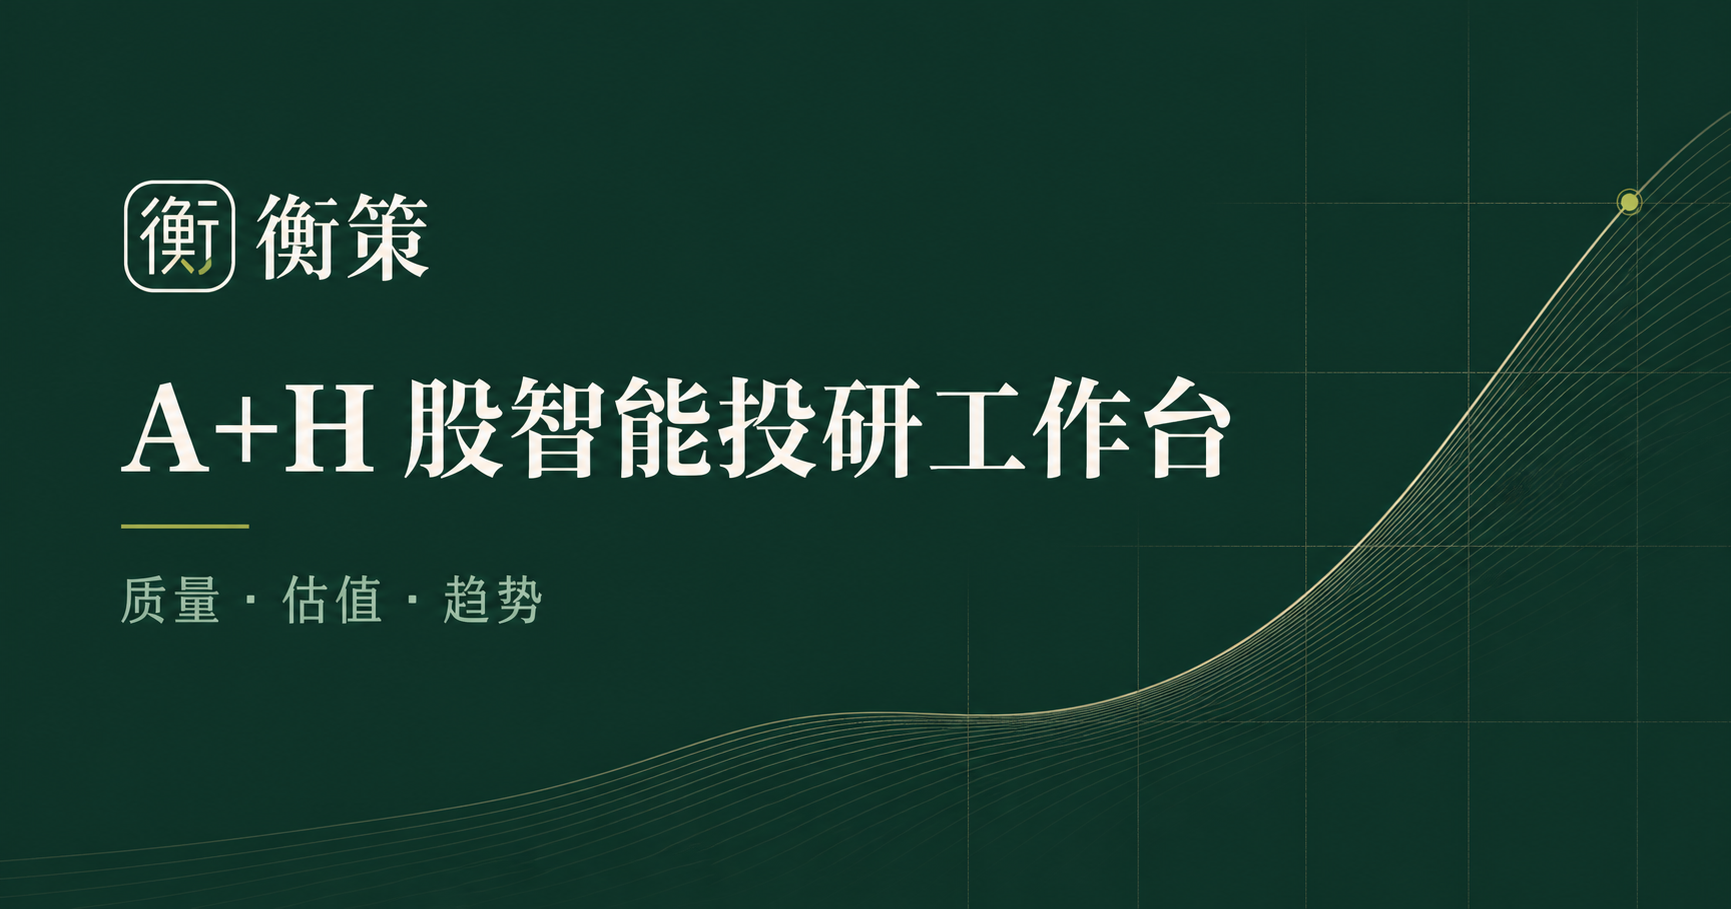
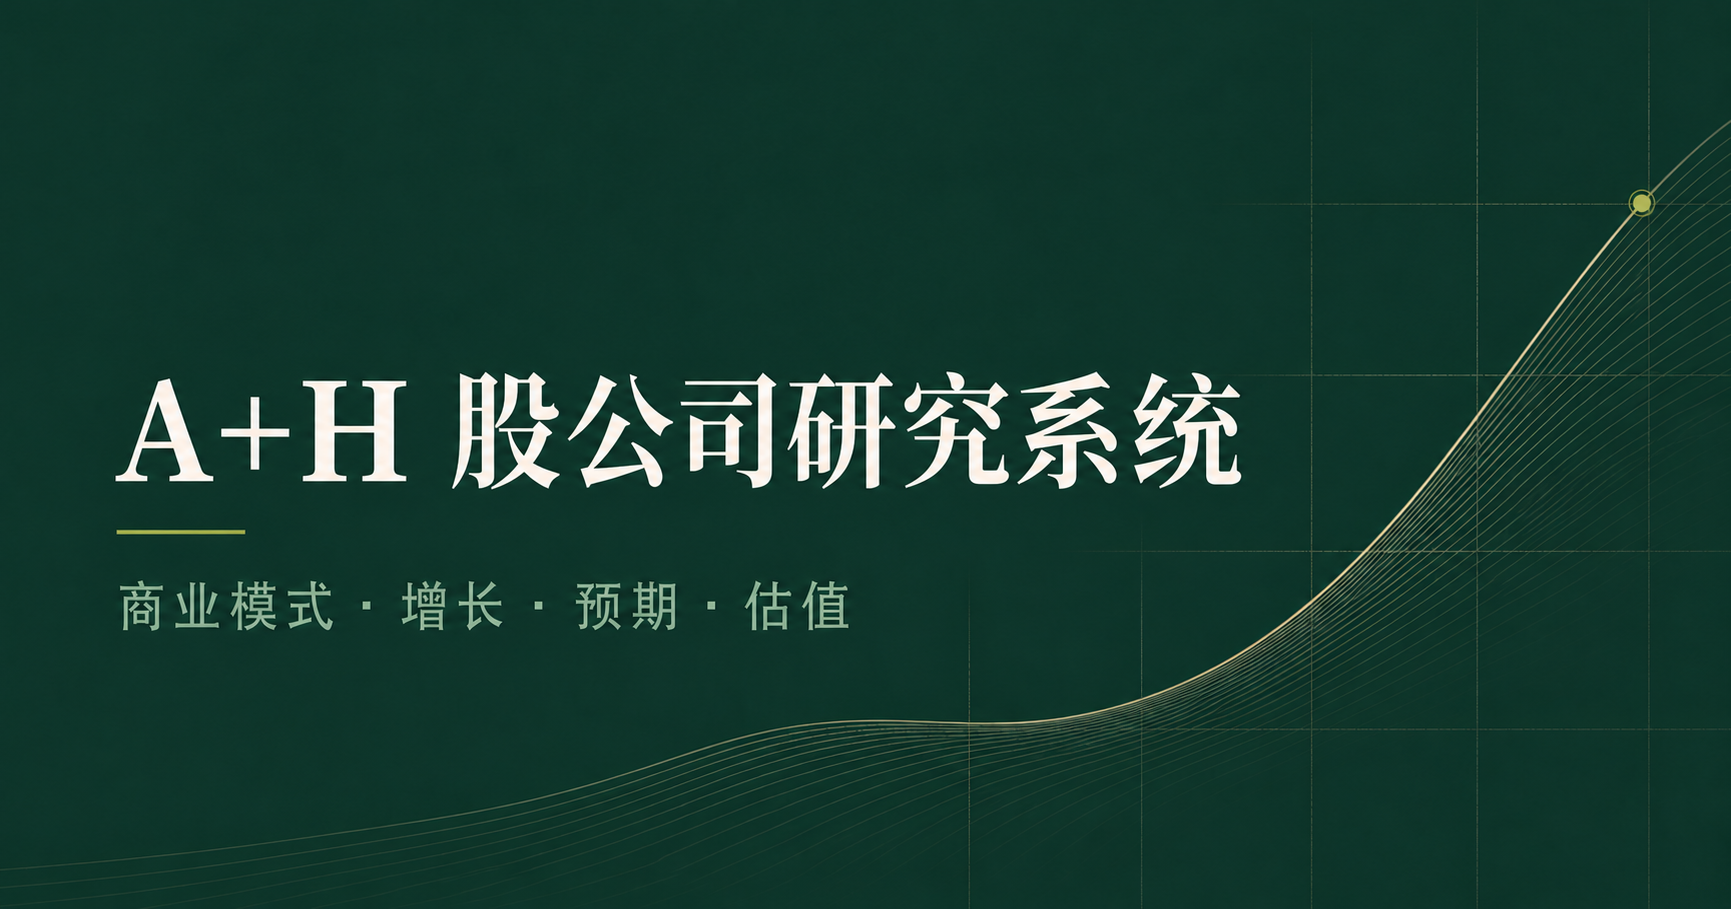
Improve README and update project branding

diff --git a/web/app/globals.css b/web/app/globals.css
@@ -9,7 +9,7 @@ button, a { -webkit-tap-highlight-color: transparent; }
 .shell { min-height: 100vh; display: grid; grid-template-columns: 224px minmax(0, 1fr); }
 .sidebar { position: sticky; top: 0; height: 100vh; display: flex; flex-direction: column; padding: 30px 18px 22px; color: #e7eee9; background: var(--green); }
 .brand { display: flex; align-items: center; gap: 11px; padding: 0 10px 34px; font-size: 20px; font-weight: 750; letter-spacing: .1em; }
-.brand-mark { width: 34px; height: 34px; display: grid; place-items: center; color: var(--green); background: var(--lime); border-radius: 9px; font-family: serif; letter-spacing: 0; }
+.brand-mark { width: 42px; height: 34px; display: grid; place-items: center; color: var(--green); background: var(--lime); border-radius: 9px; font-size: 10px; letter-spacing: 0; }
 .sidebar nav { display: grid; gap: 6px; }
 .nav-item { display: flex; align-items: center; gap: 12px; padding: 12px 13px; color: #b9c9c1; text-decoration: none; border-radius: 9px; font-size: 14px; transition: .18s ease; }
 .nav-item span { width: 18px; font-size: 18px; text-align: center; }

diff --git a/web/app/layout.tsx b/web/app/layout.tsx
@@ -7,13 +7,13 @@ export async function generateMetadata(): Promise<Metadata> {
   const host = requestHeaders.get("x-forwarded-host") || requestHeaders.get("host") || "localhost:3000";
   const protocol = requestHeaders.get("x-forwarded-proto") || (host.startsWith("localhost") ? "http" : "https");
   const origin = `${protocol}://${host}`;
-  const title = "衡策｜A+H 股智能投研";
+  const title = "A+H 股公司研究系统";
   const description = "基本面质量、合理估值与中期趋势驱动的个人投研工作台。";
   const image = `${origin}/og.png`;
   return {
     title,
     description,
-    openGraph: { title, description, images: [{ url: image, width: 1731, height: 909, alt: "衡策 A+H 股智能投研工作台" }] },
+    openGraph: { title, description, images: [{ url: image, width: 1731, height: 909, alt: "A+H 股公司研究系统" }] },
     twitter: { card: "summary_large_image", title, description, images: [image] },
   };
 }

diff --git a/web/app/DashboardClient.tsx b/web/app/DashboardClient.tsx
@@ -152,7 +152,7 @@ export default function DashboardClient() {
   return (
     <main className="shell">
       <aside className="sidebar">
-        <div className="brand"><span className="brand-mark">衡</span><span>衡策</span></div>
+        <div className="brand"><span className="brand-mark">A+H</span><span>股公司研究系统</span></div>
         <nav aria-label="主导航">
           <a className="nav-item active" href="#overview"><span>◫</span> 公司研究总览</a>
           <a className="nav-item" href="#research"><span>⌁</span> 企业质量与增长</a>

diff --git a/web/app/page.tsx b/web/app/page.tsx
@@ -2,7 +2,7 @@ import type { Metadata } from "next";
 import DashboardClient from "./DashboardClient";
 
 export const metadata: Metadata = {
-  title: "投研总览｜衡策",
+  title: "A+H 股公司研究系统",
   description: "面向 A 股与港股的中期基本面、估值与趋势投研工作台。",
 };
 

diff --git a/README.md b/README.md
@@ -1,45 +1,95 @@
-# 衡策：A+H 股公司研究系统
+# A+H 股公司研究系统
 
-面向 A 股与港股单家公司的可审计研究框架。系统先识别商业模式、价值驱动和主要矛盾，再按公司选择研究周期、关键 KPI、专业角色、可比基准和估值方法。最终输出是一份一体化公司报告，而不是固定研究员流水账或组合仓位建议。
+一个面向 A 股与港股单家公司的可审计研究框架。
 
-报告重点回答：
+它不是通用股票打分器，也不负责给出仓位或自动下单。系统先理解公司如何赚钱、增长从哪里来、市场已经计价了什么，再选择适合这家公司的 KPI、研究周期、可比基准和估值方法，最后输出一份一体化公司研究报告。
 
-- 公司如何赚钱，竞争优势如何转化为利润、ROIC 和自由现金流；
-- 当前增长点是什么，增长正在加速、稳定、放缓还是尚无法判断；
-- 哪些基本面变化已经被股价计入，哪些仍存在预期差；
-- 什么估值方法适合这家公司，动态安全边际应是多少；
-- 理想买入、可接受买入、合理持有和估值偏贵/卖出复核价格在哪里；
-- 哪些风险会破坏 thesis，下一步应监测什么。
+## 它能回答什么
 
-企业质量、增长势头、估值状态和市场计价程度分别判断，不压缩成单一 BUY/SELL 分数。报告不包含目标仓位、调仓比例、组合权重或订单计划。
+- 公司靠什么赚钱，收入、利润、ROIC 和自由现金流由什么驱动？
+- 当前增长点是什么，增长处于加速、稳定、放缓还是无法判断？
+- 哪些变化已经反映在股价里，市场隐含了怎样的经营预期？
+- 这家公司适合 PE、DCF、SOTP、单位经济还是里程碑情景估值？
+- 动态安全边际应该是多少，依据是什么？
+- 理想买入、可接受买入、合理持有和估值偏贵/卖出复核区间在哪里？
+- 哪些风险会破坏 investment thesis，下一次应该监测什么？
 
-## 推荐使用方式：直接对话
+## 能力总览
 
-Codex 技能源码位于 `skills/ah-research-team/`。安装后可输入：
+| 模块 | 系统能做什么 | 关键约束 |
+|---|---|---|
+| A/H 证券识别 | 统一解析上交所、深交所、北交所和港交所代码 | 使用 `600519.SH`、`300750.SZ`、`830799.BJ`、`00700.HK` 等格式 |
+| 数据接入 | 支持离线 Demo、严格 JSON 数据文件和 AkShare 适配器 | 数据供应商只提供证据，不直接产生投资结论 |
+| 行情与快照 | 获取 A/H 日线、价格变化、最新聚合财务和估值上下文 | AkShare 聚合财务缺少完整历史披露时间，只适合当日研究线索 |
+| 时点控制 | 校验 `as_of`、`published_at`、`observed_at` 和 `period_end` | 拒绝未来数据；不把当前快照倒灌进历史研究 |
+| 研究蓝图 | 根据商业模式选择研究周期、关键 KPI、研究角色和可比策略 | 不使用固定 Agent 名单、固定因子权重或统一模板 |
+| 公司自适应研究 | 覆盖消费品牌、数字平台、资本密集制造、金融资产负债表、研发管线等类型 | 角色为问题服务，没有信息增量的角色不加入 |
+| 同业与基准 | 判断是否真正需要同业比较，并筛选有效可比对象 | 独特公司可改用自身历史、单位经济、SOTP 或情景估值 |
+| 独立反证 | 主动检查增长质量、会计、治理、周期和估值假设 | 不按人数投票，不用重复辩论制造置信度 |
+| 估值与安全边际 | 建立 bull/base/bear 情景、动态安全边际和价格区间 | 缺少正常化盈利、现金流或估值锚时拒绝虚假精确 |
+| 市场计价判断 | 分析预期是尚未充分反映、部分反映、大致充分反映还是过度反映 | 需要 reverse valuation、一致预期及价格反应等证据交叉验证 |
+| 报告输出 | 输出自然中文 Markdown 与结构化 JSON | 报告按公司问题组织，不展示内部角色流水账 |
+| Web 查看器 | 展示观察池、企业质量、估值状态、市场计价和证据缺口 | Web 只查看和保存研究结果，不在页面内生成研究 |
+| 工程验证 | 提供模拟成交、跨币种组合和 walk-forward 回测模块 | 与公司研究主流程解耦，不影响最终公司结论 |
+
+## 系统如何工作
+
+```mermaid
+flowchart LR
+    A[输入公司或证券代码] --> B[准备行情、财务与证据]
+    B --> C[生成公司研究蓝图]
+    C --> D[动态选择研究能力]
+    D --> E[独立反证与估值]
+    E --> F[Research Lead 综合裁决]
+    F --> G[Markdown / JSON 一体化报告]
+    G --> H[可选同步到 Web 查看器]
+```
+
+1. **确定研究对象与时点**：识别证券、市场和研究截止日期。
+2. **准备 evidence packet**：汇总行情、财务、估值线索和可追溯证据。
+3. **建立 research blueprint**：识别商业类型、主要矛盾、关键 KPI、研究周期和可比策略。
+4. **动态研究与挑战**：按公司选择必要能力，并至少进行一次独立反证。
+5. **公司特定估值**：选择合适方法，检查市场隐含预期，计算动态安全边际。
+6. **编辑最终报告**：将事实、推断、情景和未知量合并为一份公司问题导向的报告。
+
+## 最终报告包含什么
+
+- 核心结论、主要矛盾和一句话 thesis；
+- 企业质量与增长势头；
+- 商业模式、盈利引擎和公司特定 KPI；
+- 盈利能力、现金流质量和财务变化；
+- 增长驱动、兑现程度和未来催化剂；
+- 竞争格局与有效可比基准；
+- 市场已经计价了什么；
+- 估值方法、动态安全边际和价格区间；
+- 最强反证、主要风险、thesis invalidation 和监测指标；
+- 数据时点、证据边界和来源链接。
+
+企业质量、增长势头、估值状态和市场计价程度会分别判断，不会被压缩成单一 BUY/SELL 分数。
+
+## 推荐入口：在 Codex 中直接研究
+
+仓库内置研究 skill：[`skills/ah-research-team/`](skills/ah-research-team/)。在已经加载该 skill 的 Codex 环境中，可以直接输入：
 
 ```text
 使用 $ah-research-team 全面研究贵州茅台，重点解释增长点、市场已经计价了多少，以及合理的买入和卖出复核区间。
 
 使用 $ah-research-team 研究腾讯控股。不要机械套互联网同业，先判断哪些业务真正可比，并围绕主要矛盾形成一体化报告。
+
+使用 $ah-research-team 复核我对宁德时代的投资逻辑。重点挑战增长持续性、资本开支回报和当前估值隐含的出货假设。
 ```
 
-对话先调用本地工具准备量价、财务和估值 evidence packet，再查交易所公告、公司 IR 与其他可靠来源。Research Lead 会生成 company-specific research blueprint，动态选择必要研究能力，并把内部争议编辑成一份完整报告。Codex 负责语言模型推理，不需要额外 LLM API Key。
+Codex 对话负责研究编排、联网取证和综合判断；本仓库的 Python 包负责确定性的数据准备、时点校验、研究状态和报告渲染。Python 包本身没有 LLM API 依赖。
 
-## 当前能力
+## CLI 快速开始
 
-- 统一 A/H 证券代码：`600519.SH`、`300750.SZ`、`830799.BJ`、`00700.HK`。
-- 按消费品牌、数字平台、资本密集制造、金融资产负债表、研发管线等商业类型生成不同研究蓝图。
-- 研究角色按问题动态选择，不使用固定 Agent 数量或固定因子权重。
-- 同业比较为条件式步骤：只有真正可比且能改变结论时才使用；独特公司可改用自身历史、单位经济、SOTP 或情景估值。
-- 将企业质量、增长势头、估值状态和市场计价程度分别建模。
-- 安全边际随公司质量、周期性、预测确定性和关键风险变化。
-- 缺少正常化盈利、现金流或估值锚时拒绝编造精确价格。
-- 离线 Demo、严格 JSON 数据契约与 AkShare A/H 行情/当日聚合财务适配器。
-- Markdown/JSON 一体化研究报告；Web 是可选查看器。
+### 运行环境
 
-AkShare 最新财务与估值接口没有完整原始披露时间，只用于当日研究并标记 `point_in_time=false`。历史研究不会倒灌这些数据。决定商业模式、增长来源和估值区间的关键数字需要回查法披原文或可追溯数据。
+- Python 3.9 或更高版本；
+- 使用 AkShare 时需要外网；
+- 使用 Web 查看器时需要 Node.js 22.13+ 和 pnpm。
 
-## 快速开始
+### 安装 Python 包
 
 ```bash
 python3 -m venv .venv
@@ -47,20 +97,32 @@ python3 -m venv .venv
 .venv/bin/python -m pip install -e '.[akshare]'
 ```
 
-真实数据基线：
+### 1. 离线 Demo
+
+不访问外网，用于验证完整研究流程、报告结构和价格区间计算：
+
+```bash
+PYTHONPATH=src python3 -m ashare_research analyze 600519.SH --provider demo
+```
+
+输出 JSON：
+
+```bash
+PYTHONPATH=src python3 -m ashare_research analyze 600519.SH --provider demo --json
+```
+
+> Demo 中的公司事实和情景价值仅用于工程验证，不代表真实研究结论。
+
+### 2. 获取当前 A/H 市场数据
 
 ```bash
 .venv/bin/ashare-research analyze 600519.SH --provider akshare
 .venv/bin/ashare-research analyze 00700.HK --provider akshare --json
 ```
 
-离线验证：
+AkShare 适配器会尝试准备 A/H 日线、公司资料、最新聚合财务和估值字段，并记录备用数据源的失败与降级信息。它不会自动补齐完整法定披露、分部经营数据或前瞻情景价值。
 
-```bash
-PYTHONPATH=src python3 -m ashare_research analyze 600519.SH --provider demo
-```
-
-使用自己的 point-in-time 数据：
+### 3. 使用自己的 point-in-time 数据
 
 ```bash
 PYTHONPATH=src python3 -m ashare_research analyze 600519.SH \
@@ -69,7 +131,30 @@ PYTHONPATH=src python3 -m ashare_research analyze 600519.SH \
   --save
 ```
 
-数据契约示例见 [examples/research_data.json](examples/research_data.json)。其中离线情景价值只用于验证价格区间计算，不代表真实估值。
+数据契约示例见 [`examples/research_data.json`](examples/research_data.json)。自定义 provider 需要保留来源、披露时间、观察时间、报告期、单位、币种和口径。
+
+### 4. 保存报告
+
+```bash
+PYTHONPATH=src python3 -m ashare_research analyze 600519.SH \
+  --provider demo \
+  --save \
+  --output-dir reports
+```
+
+系统会同时生成 Markdown 和 JSON。默认输出目录为 `reports/`；研究产物已被 `.gitignore` 排除，避免误提交真实研究数据。
+
+### 常用参数
+
+| 参数 | 作用 |
+|---|---|
+| `--date YYYY-MM-DD` | 指定研究截止日 |
+| `--provider demo\|akshare` | 选择离线样例或 AkShare |
+| `--data-file PATH` | 使用符合契约的 JSON 数据 |
+| `--json` | 在终端输出 JSON |
+| `--save` | 保存 Markdown 与 JSON 报告 |
+| `--output-dir PATH` | 覆盖报告目录 |
+| `--web-url URL` | 将结果同步到 Web 查看器 |
 
 ## Web 报告查看器
 
@@ -79,28 +164,97 @@ pnpm install
 pnpm run dev
 ```
 
-浏览器访问 `http://localhost:3000`。将 Python 研究结果同步到 Web：
+打开 `http://localhost:3000`。页面提供：
+
+- A 股与港股观察池；
+- 公司研究运行记录；
+- 企业质量、估值状态和市场计价展示；
+- 证据缺口提示；
+- Cloudflare D1 持久化。
+
+将 CLI 研究结果同步到 Web：
 
 ```bash
 PYTHONPATH=src python3 -m ashare_research analyze 600519.SH \
-  --date 2026-08-18 \
+  --provider demo \
   --web-url http://localhost:3000
 ```
 
-Web 展示企业质量、估值状态和市场计价程度，不展示组合仓位。
+Web 不展示组合仓位，也不负责生成公司研究。
+
+## 数据与证据纪律
+
+- `as_of` 是研究截止日，只能使用当时已经公开且可获得的信息。
+- `published_at` 是材料公开时间，不能晚于研究日。
+- `observed_at` 是系统实际获取时间，未来观察会被拒绝。
+- `period_end` 是财务所属期间，不能替代披露日期。
+- `point_in_time=false` 表示聚合接口缺少可靠披露时点，只能作为当日研究线索。
+- 关键数字应回查交易所公告、法定披露或公司 IR；聚合快照不能单独支撑商业模式、增长或内在价值结论。
+- 事实、分析推断和情景假设必须分开表达。
 
 ## 独立工程模块
 
-仓库保留 `portfolio.py` 与 `backtest.py` 作为解耦的模拟成交和 walk-forward 回测工具，供工程验证使用。它们不参与公司研究结论，也不进入最终报告。
+这两个模块用于验证交易和回测代码，不参与公司研究结论：
+
+- `PaperPortfolio`：支持 A 股 T+1、港股手数、停牌、涨跌停、交易费用、跨币种换算和最大单一权重约束。
+- `BacktestEngine`：执行 walk-forward 调仓并计算累计收益、年化收益、波动率、Sharpe、最大回撤和换手率。
+
+## 明确不做的事情
+
+- 不把 LLM 生成的数字当作数据源；
+- 不用当前财务快照回填历史研究；
+- 不用单期同比直接判断增长加速或减速；
+- 不强制每家公司做同业比较；
+- 不对所有公司套用统一 PE/PB 阈值；
+- 不把企业质量、增长、估值和价格动作折成一个总分；
+- 不输出目标仓位、调仓比例、组合集中度或订单计划；
+- 不自动下单。
+
+## 项目结构
+
+```text
+.
+├── skills/ah-research-team/   # Codex 公司研究 skill
+├── src/ashare_research/       # Python 核心包
+│   ├── agents/                # 研究规划、分析、估值与综合
+│   ├── data/                  # Demo、JSON、AkShare 数据适配器
+│   ├── workflow.py            # 研究编排
+│   ├── report.py              # Markdown / JSON 报告
+│   ├── portfolio.py           # 模拟组合
+│   └── backtest.py            # Walk-forward 回测
+├── web/                       # 可选 Web 报告查看器
+├── examples/                  # 数据契约与运行示例
+├── tests/                     # Python 与 Web 测试
+├── docs/                      # 架构和产品范围
+└── reports/                   # 本地报告输出目录
+```
 
 ## 验证
 
+Python：
+
 ```bash
 PYTHONDONTWRITEBYTECODE=1 PYTHONPATH=src python3 -m unittest discover -s tests -v
-cd web && pnpm run build && node --test tests/rendered-html.test.mjs
 ```
+
+Web：
+
+```bash
+cd web
+pnpm run lint
+pnpm test
+```
+
+## 进一步阅读
 
 - [系统架构](docs/architecture.md)
 - [当前产品范围与数据路线](docs/product_scope.md)
+- [研究团队工作流](skills/ah-research-team/references/team-workflow.md)
+- [报告契约](skills/ah-research-team/references/report-contract.md)
+- [数据源规则](skills/ah-research-team/references/data-sources.md)
+
+## License
+
+[Apache License 2.0](LICENSE)
 
 > 本项目仅用于公司研究与工程验证，不构成投资建议。

diff --git a/web/README.md b/web/README.md
@@ -1,6 +1,6 @@
-# 衡策 Web 公司研究工作台
+# A+H 股公司研究系统
 
-面向 A 股与港股的可选报告查看器，展示观察池、企业质量、估值状态、市场计价程度和证据缺口。页面不生成研究，也不展示仓位管理建议。
+本目录包含系统的可选 Web 报告查看器，用于展示观察池、企业质量、估值状态、市场计价程度和证据缺口。页面不生成研究，也不展示仓位管理建议。
 
 ## 本地开发
 
